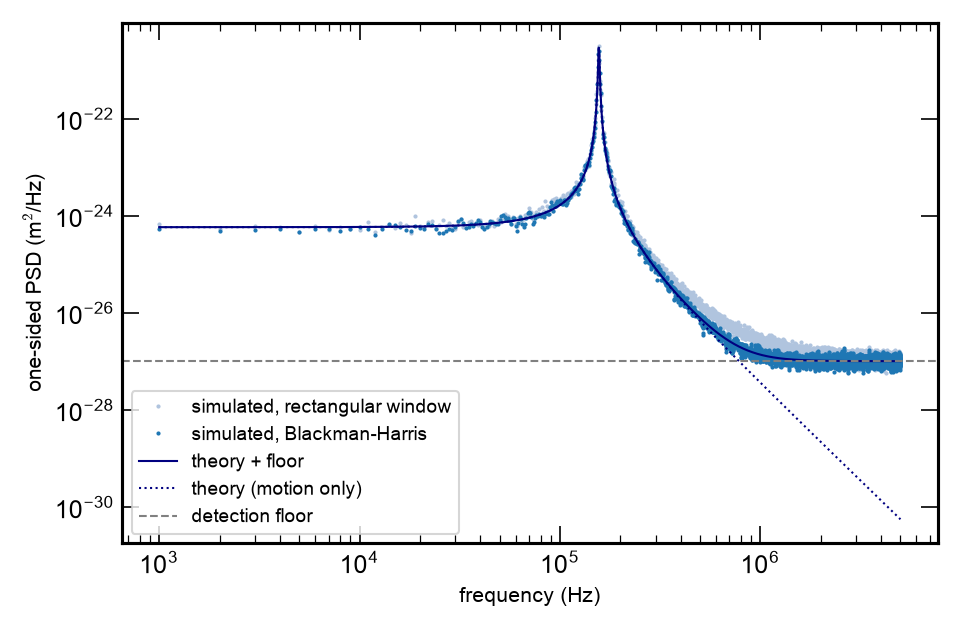
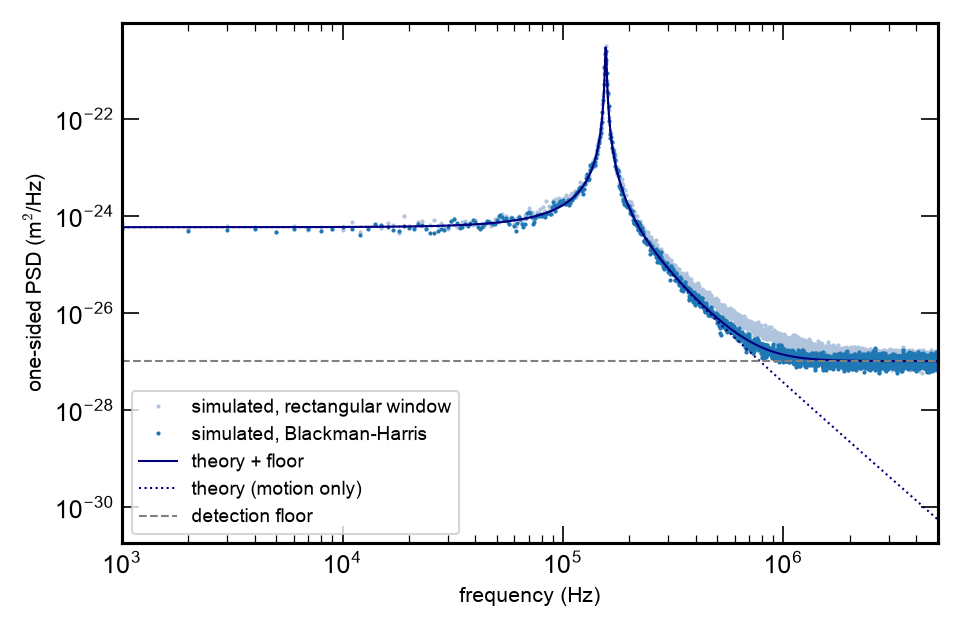
draw the README's figures edge to edge
Every figure the README embeds now has its curves running to the left and right axes, in the
xmgrace style as before:
- quickstart_homodyne.png: ax.margins(x=0); the script now writes into docs/guide/figures/ (it
  wrote into the working directory, while the README embeds the copy in docs/guide/figures/),
  and the README's quickstart code gets the same ax.margins(x=0) line;
- stochastic_psd.png (shared x axis): xlim set to the plotted frequency range;
- stochastic_broadband.png (embedded by the stochastic guide, written by the same script): xlim
  set to the plotted range.
Regenerated with the scripts and inspected. The stochastic run is seeded, and the numbers it
printed are the ones the README and guide quote (T_eff,x 1.235 K, 1.174 K via the fit; tail
excess 1.514 rectangular and 1.018 Blackman-Harris at 0.3-0.5 MHz).

Written by Claude (Anthropic) at the repository owner's request; see DISCLAIMER.md.

diff --git a/docs/guide/scripts/quickstart_homodyne.py b/docs/guide/scripts/quickstart_homodyne.py
@@ -1,4 +1,12 @@
-"""Quickstart: two particles in one cavity, homodyne spectrum of the cavity output"""
+"""
+Quickstart: two particles in one cavity, homodyne spectrum of the cavity output
+
+    python docs/guide/scripts/quickstart_homodyne.py
+
+Writes docs/guide/figures/quickstart_homodyne.png (the README's first figure).
+"""
+from pathlib import Path
+
 import numpy as np
 import matplotlib.pyplot as plt
 
@@ -7,6 +15,8 @@ from levisim.core.units import kHz
 from levisim.multiphysics.enums import QuantumLinearTheoryMethod
 from levisim.multiphysics.multitrap import MultiTrap
 from levisim.multiphysics.utils.shelf import DEFAULT_cavity_kwargs, DEFAULT_gas_kwargs
+
+FIGURES = Path(__file__).resolve().parents[1] / 'figures'
 
 set_plt_rcParams_to_xmgrace_style()
 
@@ -30,5 +40,6 @@ for label, dim in mtrap.dimensions.items():
 ax.set_xlabel(r'$\omega / 2\pi$ (kHz)')
 ax.set_ylabel(r'$S_{hh}(\omega)$ (shot-noise units)')
 ax.set_ylim(top=4 * S_hh.max())
+ax.margins(x=0)  # the curve runs to the left and right axes
 fig.tight_layout()
-fig.savefig('quickstart_homodyne.png', dpi=150)
+fig.savefig(FIGURES / 'quickstart_homodyne.png', dpi=150)

diff --git a/docs/guide/scripts/stochastic_example.py b/docs/guide/scripts/stochastic_example.py
@@ -83,6 +83,7 @@ ax2.axhline(0, color='k', lw=0.8)
 ax2.set_xlabel('frequency (kHz)')
 ax2.set_ylabel(r'co-spectrum (m$^2$/Hz)')
 ax2.legend(fontsize=9, loc='upper right')
+ax2.set_xlim(f[sel][0]/1e3, f[sel][-1]/1e3)  # shared x: the curves run to both axes
 fig.tight_layout()
 fig.savefig(FIGURES / 'stochastic_psd.png', dpi=150)
 
@@ -96,6 +97,7 @@ ax.axhline(G_floor, ls='--', color='grey', lw=1, label='detection floor')
 ax.set_xlabel('frequency (Hz)')
 ax.set_ylabel(r'one-sided PSD (m$^2$/Hz)')
 ax.legend(fontsize=9, loc='lower left')
+ax.set_xlim(f[wide][0], f[wide][-1])
 fig.tight_layout()
 fig.savefig(FIGURES / 'stochastic_broadband.png', dpi=150)
 print('figures written to', FIGURES)

diff --git a/README.md b/README.md
@@ -46,6 +46,7 @@ S_hh = mtrap.homodyne_spectrum(QuantumLinearTheoryMethod.LINEAR_AMPLIFIER_MODEL)
 
 fig, ax = plt.subplots()
 ax.semilogy(mtrap.ω_range / kHz, S_hh)
+ax.margins(x=0)
 ax.set_xlabel(r'$\omega / 2\pi$ (kHz)')
 ax.set_ylabel(r'$S_{hh}(\omega)$ (shot-noise units)')
 fig.savefig('quickstart_homodyne.png')
